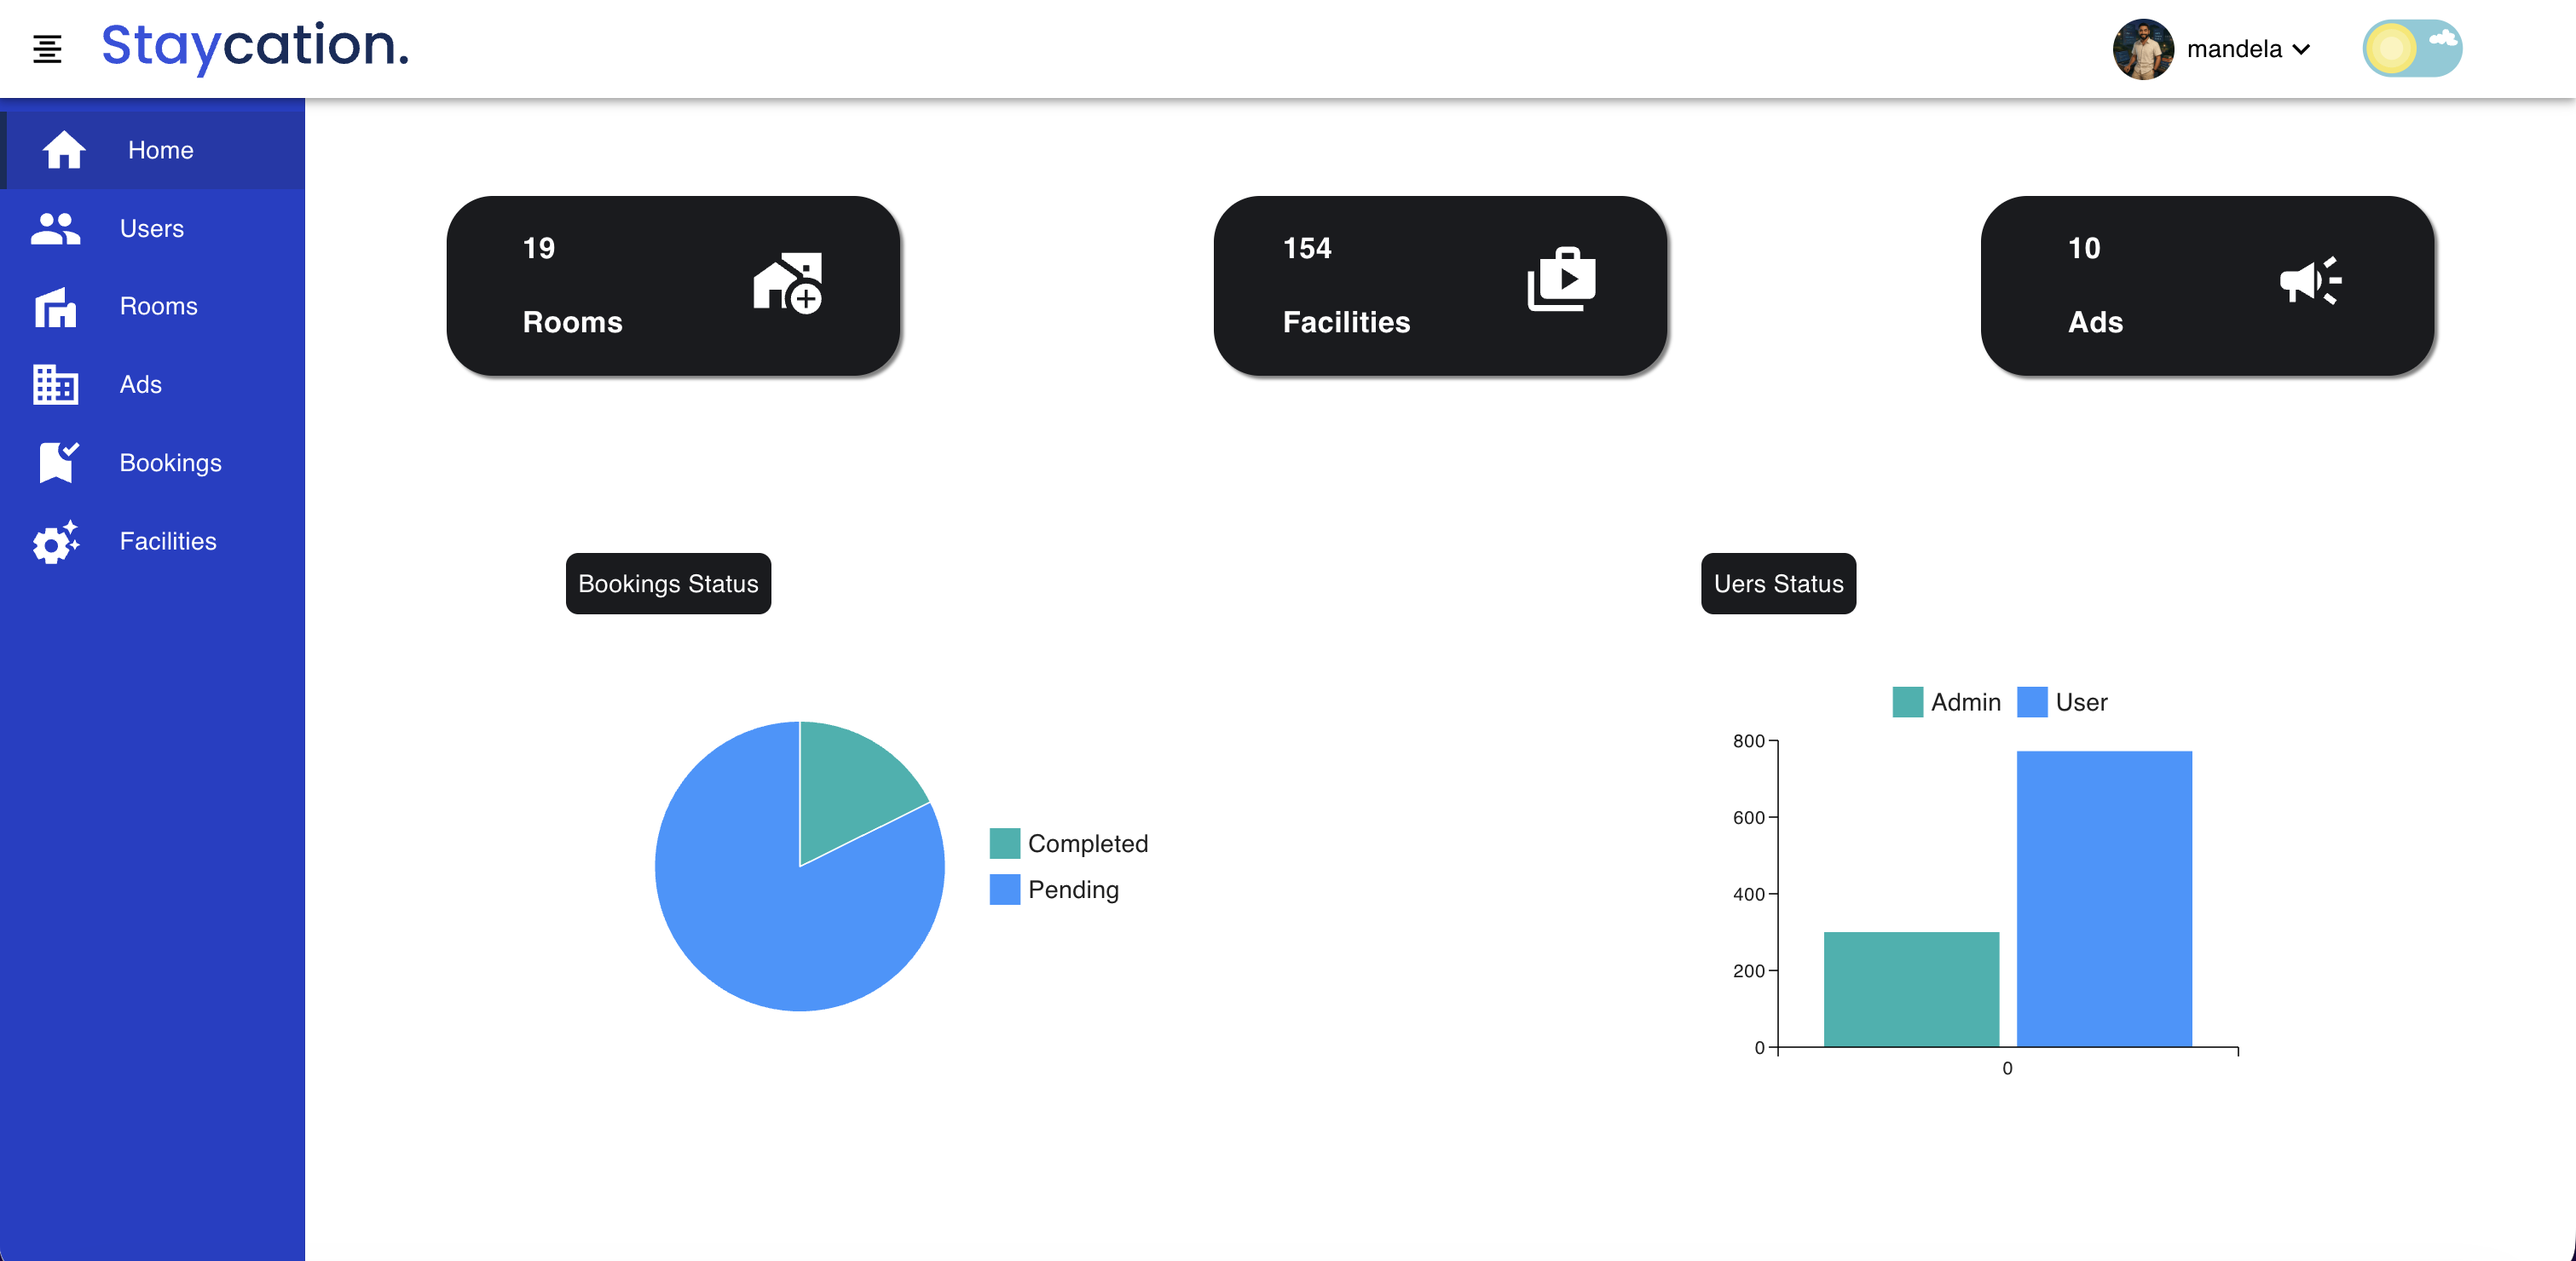
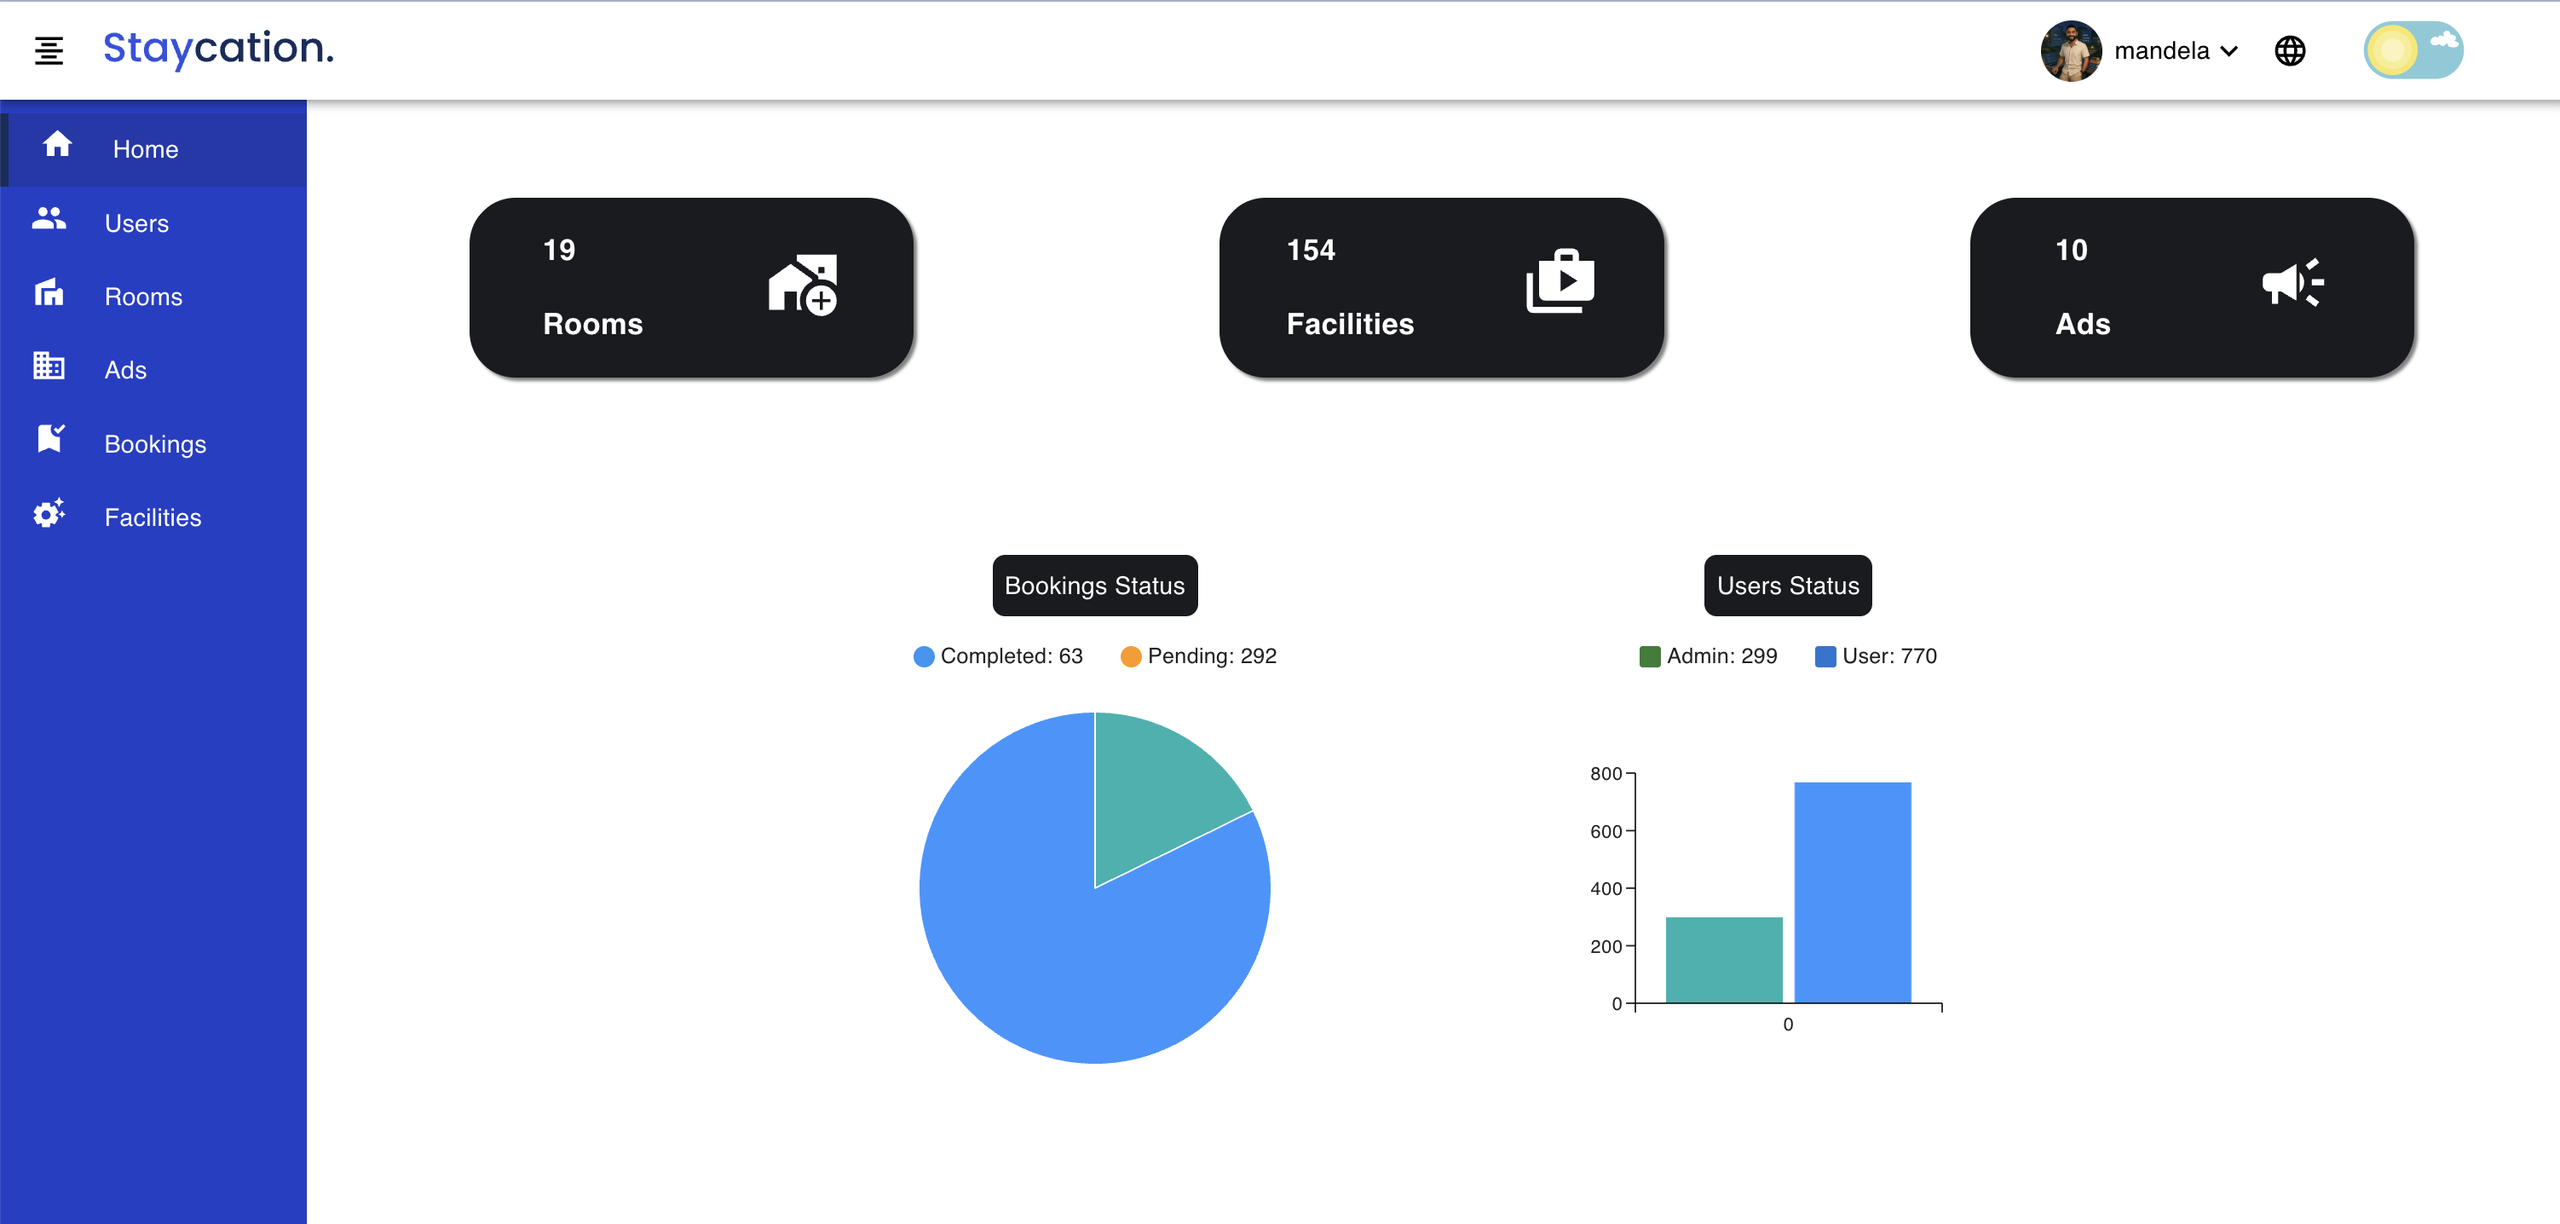
[enhancement] add screens and improve localization support

diff --git a/src/Modules/AdminDashboard/Componenets/BookingsList/BookingsList.tsx b/src/Modules/AdminDashboard/Componenets/BookingsList/BookingsList.tsx
@@ -233,7 +233,7 @@ export default function BookingsList() {
           </Box>
         </CacheProvider>
       </Box>
-      {/* Showing Booking Deatils In A Table */}
+      {/* Showing Booking Details In A Table */}
       <Modal
         aria-labelledby="transition-modal-title"
         aria-describedby="transition-modal-description"
